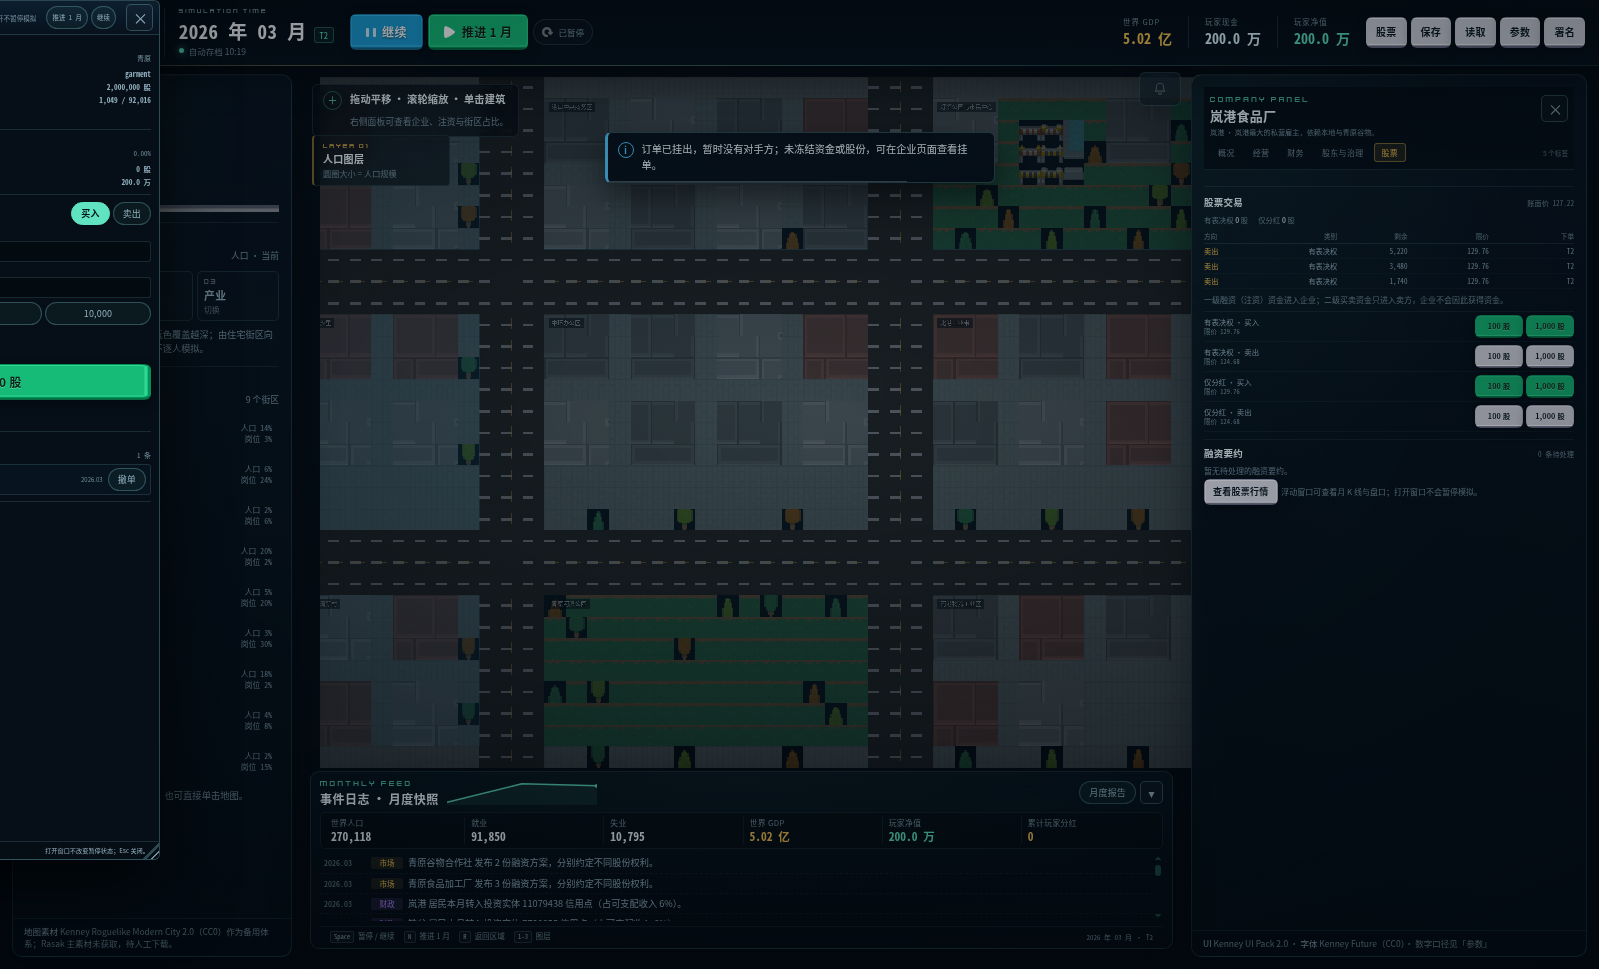
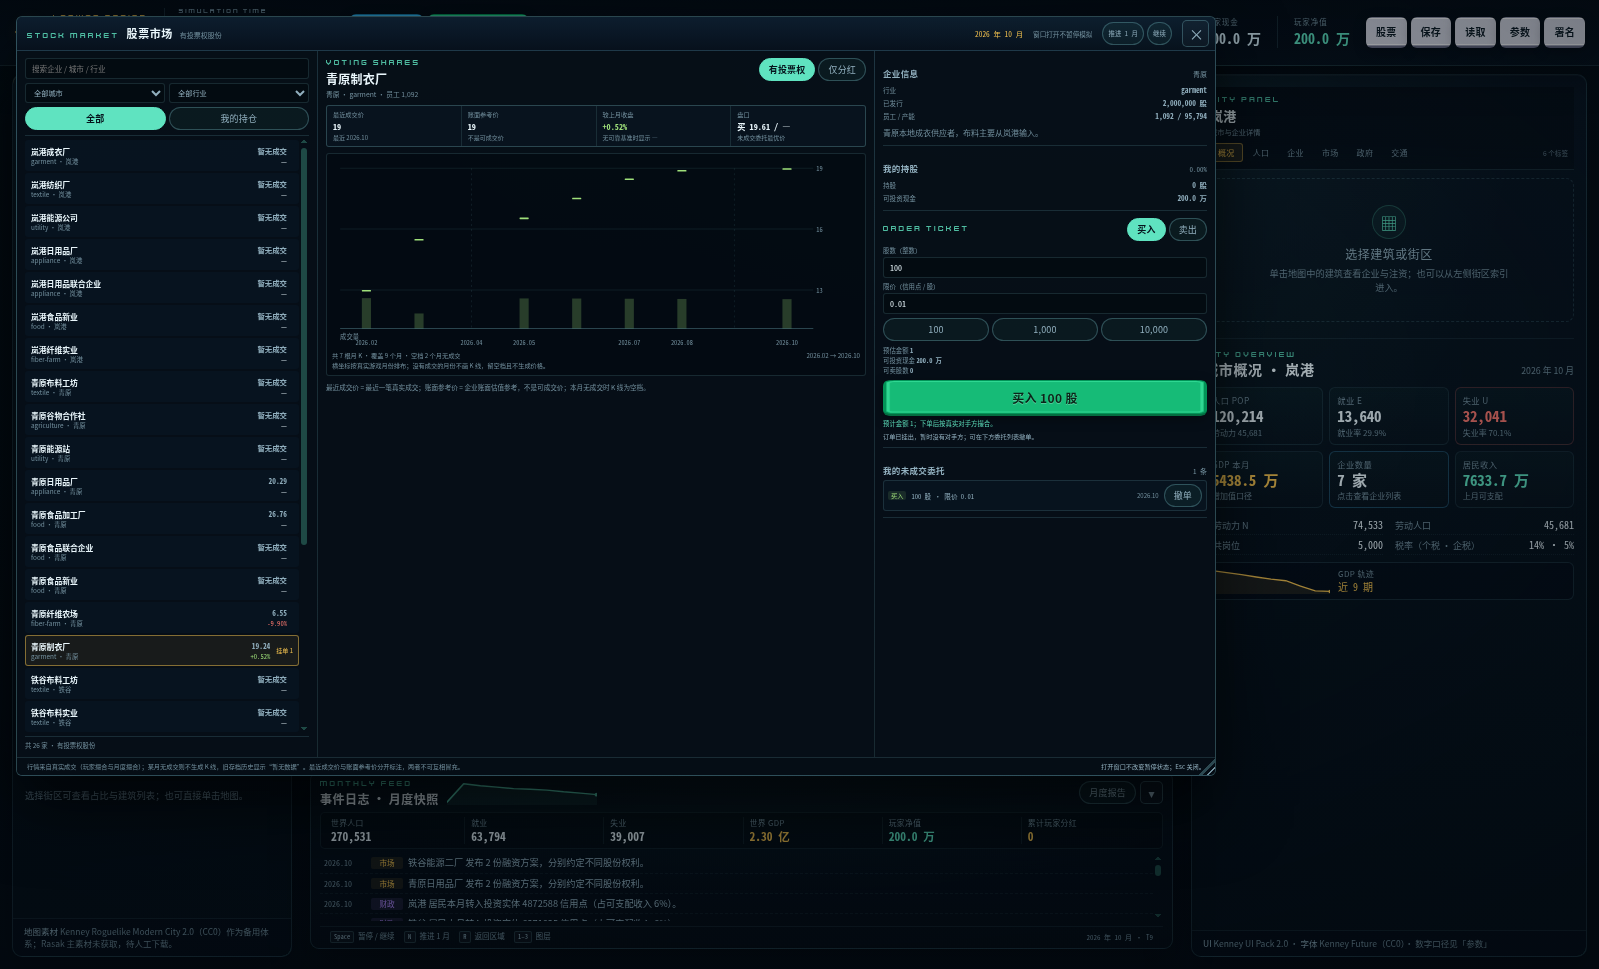
docs: v0.8.1 复验修复记录、桌面证据与版本更新
- 交付报告新增第 17 节：四项复验问题的根因、修复、测试与桌面证据；
- README 更新到 v0.8.1（601 项测试、桌面 42/42、证据 13 张）；
- 更新 docs/evidence_v0.8 截图与验收 JSON。

diff --git a/README.md b/README.md
@@ -1,9 +1,11 @@
-# 岚湾区域 · 多城市经济与政治模拟（机制扩展原型 v0.8.0）
+# 岚湾区域 · 多城市经济与政治模拟（机制扩展原型 v0.8.1）
 
 基于 **TypeScript + Phaser 3 + Electron** 的桌面经济模拟原型。v0.4 在 v0.3（企业自动经营、政府政策、公路铁路交通）基础上，加入**居民职业与财富阶层**、**经营者/人才市场/企业选任**、**玩家三种经营模式**，以及**独立银行系统**（存款、个人与企业贷款、授信估值与旧债务承接）。v0.5 完成总架构师验收后的 7 项修复：经营权限与自动贷款授权、每笔借款独立期限、职业工资差异、按群体消费预算、人才保留、迁移存款守恒，并补充桌面逐项验收与存档终态记录兼容。v0.6 修复市场需求记账：生产采购按“计划需求 / 资金允许的有效需求 / 实际成交 / 缺货未满足 / 资金不足未满足”分开记录，完全无供应时不再显示 0 需求（存档格式升到 v6）。
 v0.7 加入**政府债券与政府债务**（发行计划/实售分离、认购窗口、票息、到期兑付、银行垫付、12 个月 GDP 判定窗口、破产与重选）、**居民消费金融**（群体消费预算、消费贷、违约与欠付）与**财政可见性**（非市长不见财政明细）。v0.7.1 修复总架构师复验的 7 项问题：手动发债 AI 认购、玩家认购 AI 城市债券的窗口、消费贷与成交原子性、政府贷款按实际未偿计息、非市长财政权限、群体变化时债务归属、破产后恢复发债；并修复 36 月模拟中家庭贷款拆分碎片指数增长（合同 11.6 万→~1.3 千）与存档终态协议校验。v0.7.2 修复家庭贷款合并把不同还款安排的贷款并成同一笔、导致新贷款提前到期的问题（只合并开始月/期限/下次还款/利率/状态完全相同的碎片），并禁止 AI 在玩家担任市长的城市自动发债（玩家仍可主动发债）。
 
 v0.8 交付**独立股票市场大窗口**（可拖动/缩放/关闭，三栏；有表决权与仅分红两类股份各自显示持仓、盘口、挂单与**按真实成交聚合的月度 OHLCV K 线**；无成交月份留空档，旧档显示“暂无数据”）、**右侧栏按对象分标签**（城市 6 个、企业 5 个、建筑/街区 2 个，默认概况，切换不改模拟状态）、**股票—居民/企业 AI 联动**（真实资金与持股、确定性规则、企业买方仅限有表决权股份），以及**消费税 5% / 股息税 10% / 城内交通税收系数 0.5–1.5**（加成注入政府、损耗单独记账，纳税人不补缴不退款）；存档升级 v8（旧档只补空行情/空税账/中性系数，不虚构历史成交、不改现金股份债务）。
+
+v0.8.1 修复复验问题：交通税收加成/损耗不再在财政流水与市长面板中重复计算（流水改为“基准税额 + 加成 − 损耗”，净额等于实际入账）；K 线横坐标按真实游戏月份排布、无成交月份留空档，成交量柱不再越出图表；企业退出后保留此前真实成交的行情历史并标识“已退出/不可交易”，禁止继续下单或恢复注销股份；桌面证据补齐到 42 项检查。
 
 > 除文档中明确标注“用户已确认”的少数规则外，本版所有数值与规则均为**可替换的暂定演示方案**，不是最终策划。界面上没有用假按钮冒充完整系统。
 
@@ -128,28 +130,28 @@ npm run package        # 生成 Windows NSIS 安装包（需联网）
 
 ## 存档
 
-- 存档格式 `formatVersion 8`，`gameVersion 0.8.0`；槽位：`autosave`、`manual-1`、`manual-2`、`manual-3`。v0.5/v0.6/v0.7 的 v5/v6/v7 存档可迁移读取（市场账本、财政字段、税收账目与股票行情按保守口径补齐）。
+- 存档格式 `formatVersion 8`，`gameVersion 0.8.1`；槽位：`autosave`、`manual-1`、`manual-2`、`manual-3`。v0.5/v0.6/v0.7 的 v5/v6/v7 存档可迁移读取（市场账本、财政字段、税收账目与股票行情按保守口径补齐）。
 - **迁移链 v1 → v2 → v3 → v4 → v5 → v6 → v7 → v8 全部保留**。v7 → v8 只补空行情、空税账与中性系数（不虚构历史成交、不重复扣税、不改变现金/股份/债务）。v4 → v5 补齐居民群体（现金与存款为 0，不凭空造钱）、经营者（沿用原企业风格）、银行账本，并把旧 `company.debt` 承接为有还款计划的银行贷款（本金不变、不清零、不重复计息）。
 - **旧版 v1/v2 存档自动迁移**：保留人口、企业现金/债务/库存/产能、玩家现金与持股、时间、历史、日志、随机种子与 RNG 状态。v1 的全部发行股份迁移为有投票权类别，玩家持股原值保留，其余股份按本城居民实体人口占比分配；居民实体现金从 0 开始，不凭空创造货币。v2 议案补上登记日投票权快照，仍开放的旧议案把异常重复票压到登记日持股。
 - 无法安全推导的旧存档（发行量无效、玩家持股超过发行量等）会被明确拒绝并说明原因。
 - 自动存档：文件不存在（首次运行）与“文件存在但读取失败”（过大、权限、IO 错误、损坏内容）被区分处理。后者会暂停自动写入并保留原文件，界面用易懂语言提示；读取有效存档或确认开始新世界后才恢复自动保存。
 - 读取失败不会覆盖当前进度；版本高于 2 明确拒绝。
 
-## 验证状态（2026-11-03，v0.8.0）
+## 验证状态（2026-11-03，v0.8.1）
 
 - `npm run typecheck`：通过（渲染层 + Electron 主进程，0 错误）。
-- `npx vitest run --maxWorkers=1`：**73 个测试文件 / 586 项全部通过**（新增股票行情、股票 AI、订单号唯一性、消费税/股息税/交通系数、右栏标签与股票窗口、存档 v8 迁移；既有银行/债券/破产/治理/交通/居民债务回归全部通过）。
+- `npx vitest run --maxWorkers=1`：**75 个测试文件 / 601 项全部通过**（新增股票行情、股票 AI、订单号唯一性、消费税/股息税/交通系数、右栏标签与股票窗口、存档 v8 迁移、税收流水一致性与退出企业历史保留；既有银行/债券/破产/治理/交通/居民债务回归全部通过）。
 - `npm run build`：通过。
-- 桌面逐项验收 `node scripts/acceptance-v08.cjs`（Xvfb + Electron，隔离 userData）：**36/36 项通过、0 条控制台错误**；截图 10 张与 JSON 已入仓 `docs/evidence_v0.8/`（不依赖 artifacts/）。
+- 桌面逐项验收 `node scripts/acceptance-v08.cjs`（Xvfb + Electron，隔离 userData）：**42/42 项通过、0 条控制台错误**；截图 13 张与 JSON 已入仓 `docs/evidence_v0.8/`（不依赖 artifacts/）。
 - 主冒烟 `node scripts/smoke-main.cjs`：exit 0（已适配右栏“企业”标签）。
-- 36 个月固定种子集成观察 `npx tsx scripts/economy-balance-report.ts`：exit 0，末期不变量通过；数据与解读见 `docs/development/DELIVERY_REPORT_v0.8.md` 第 7 节。
+- 36 个月固定种子集成观察 `npx tsx scripts/economy-balance-report.ts`：exit 0，末期不变量通过；数据与解读见 `docs/development/DELIVERY_REPORT_v0.8.md` 第 7 节；复验修复记录见第 17 节。
 - 详细记录见 `docs/development/DELIVERY_REPORT_v0.8.md`。
 
 桌面验证使用隔离的 `artifacts/acceptance-v08/electron-user-data`，不会触碰用户真实存档。本机为无显示容器，桌面验证通过 Xvfb 执行。
 
 ## 已知限制
 
-- 股票定价首版以账面价作参考、以真实成交作最近价；尚无做市商、估值模型或两类股份的差异化定价，K 线为月度粒度。
+- 股票定价首版以账面价作参考、以真实成交作最近价；尚无做市商、估值模型或两类股份的差异化定价，K 线为月度粒度。非投票（仅分红）股份目前没有 AI 对手方，真实行情通常为空，界面显示“暂无成交”而不伪造成交；企业退出后的历史行情为只读。
 - 居民股票权益按本城人口比例归属居民投资实体，首版不区分各群体自己的投资组合。
 - 财富阶层阈值、初始财富（按“若干个月群体收入”注入）、经营者任期与候选人规则、玩家经营模式阈值均为可替换的暂定参数。
 - 银行资金无限意味着存款利息会净增加货币量；这是用户已确定的定位，未做央行冲销。

diff --git a/docs/development/DELIVERY_REPORT_v0.8.md b/docs/development/DELIVERY_REPORT_v0.8.md
@@ -228,3 +228,83 @@ DISPLAY=:99 node_modules/electron/dist/electron --no-sandbox \
 - 分支：`feature/stock-market-ui-tax`（不在 main 上提交、不合并、不 force push、不改写已推送历史）
 - 基线：`6c45000efc4c406d30e22c0a12bd066fc2df61f7`
 - 最终提交与远程 SHA：见文末提交记录（本报告随文档提交一并推送）。
+
+# 17. v0.8.1 复验修复记录（2026-11-03）
+
+- 开发基线：`010888ecdc62febfd4ef527ded8d97524f5ad886`
+- 本轮代码提交：`bc0b43b`（模拟/税收/历史）、`a0eac87`（K 线/股票窗口/桌面脚本）；文档与证据提交随本次推送给出
+- `SAVE_FORMAT_VERSION` 保持 8，`GAME_VERSION` 升级为 `0.8.1`（仅新增可选字段与放宽校验，v8 旧档可读）
+
+## 17.1 交通税收加成/损耗在财政流水中重复计算
+
+**根因**：`settleCityTaxes` 先把“调整后的最终税收”记入财政流水，又各记一笔 `transportTaxBonus` / 负数 `transportTaxLoss`；市长财政视图按流水金额正负分别汇总为收入/支出，于是系数 1.5 时收入显示为基准 100 + 调整 50（加倍），系数 0.5 时收入 50、支出 50、净额 0。
+
+**修复**：财政流水改为按**基准税额**记四税，交通调整单列：
+
+- `incomeTax` / `corporateTax` / `consumptionTax` / `dividendTax` 分录金额 = 各自基准税额（备注“基准税额；交通调整单列”）；
+- `transportTaxBonus` 记正数、`transportTaxLoss` 记负数，净额 = 实际入账；
+- 政府财政余额仍只增加“最终入账”（基准 × 系数），纳税人仍只付基准税额；加成由系统注入、损耗按原口径单独流出；
+- 四税可分别查询基准税额、交通调整额与最终收入（`CityTaxMonth` 四组 base/revenue + `transportBonus/Loss`），市长面板“基准税 / 交通系数 / 加成 / 损耗 / 最终入账”与流水逐项一致。
+
+**测试**：新增 `tests/tax-ledger-consistency.test.ts`（5 项）：系数 1.5 → 财政 +150、流水 `incomeTax 100 + bonus 50`、面板收入 150/支出 0/净额 150；系数 1.0；系数 0.5 → 收入 100/支出 50/净额 50；四税 taxNet = `totalRevenue`、重复结算清账；读档后再结算不重复入账。按新口径更新 `tests/tax-transport.test.ts`（四税基准分录 + 加成/损耗，净额 49,500）。
+
+## 17.2 K 线无成交月份的时间轴
+
+**根因**：`renderStockChart` 以蜡烛数组下标均匀排布横坐标，1 月与 12 月有成交时仍相邻；成交量柱在固定高度 SVG 内可越出底部被裁切。
+
+**修复**：`src/ui/stock-window/chart.ts`
+
+- 横坐标按真实游戏月份映射：`x(tick) = left + (tick - firstTick + 0.5) × slot`，无成交月不生成蜡烛，只留空档；
+- 月份刻度（最多 6 个）、空档纵向虚线 `.gap-mark` 与提示，meta 显示“覆盖 N 个月 · 空档 M 个月无成交”，悬停月份取该蜡烛真实 tick；
+- 价格区与成交量区各自预留高度（`PRICE_BOTTOM = 高度 − 边距 − 成交量区 − 间隔`），成交量柱底边量化为整数并限制在基线（168）以内，不再越界；
+- 新增 `data-months` / `data-gap-months` / 蜡烛 `data-tick`，便于回归测试与验收脚本核对；
+- 不伪造任何 OHLCV：无成交月份没有蜡烛，成交量柱为空。
+
+**测试**：`tests/ui-stock-window.test.ts` 增至 18 项（1 月与 12 月有成交 → 覆盖 12 个月、空档 10 个月且两根蜡烛间距 > 400px；连续月份无空档；单笔成交居中且 `data-tick` 正确；成交量柱底 ≤ 168；两类股份标题与数据独立；已退出企业只读渲染）。
+
+## 17.3 企业退出前的真实股票历史
+
+**根因**：`ensureStockHistory` 以现存 `securities.classes` 为依据清理历史；企业退出时股份类别被移除，随后一次调用就删掉该企业全部 K 线。
+
+**修复**：
+
+- `StockClassHistory` 增加可选 `companyName`、`exitedTick`；`ensureStockHistory` 保留不在现存类别中的历史条目并标记首次退出月份，存续类别同步名称并清除退出标记；`recordStockTrade` 忽略已退出类别，不会给退出企业追加成交；
+- `validateSecurities` 放宽为：历史条目只要 `shareClassId/companyId` 为非空字符串、`kind` 合法即可（允许引用已退出企业），类别仍存在时继续校验一致；可选字段类型校验；
+- `GameStore.stockMarketView` 在经营中企业之后追加已退出历史行（`exited: true`、`tradable: false`），明细展示企业名、类别、最后成交、退出月份与 K 线；`tradeShares` 对已退出企业/注销股份返回失败（“该企业已退出市场或股份已注销：不可再交易。”）；
+- 股票窗口对退出企业显示“已退出 / 不可交易”标识与说明，隐藏下单表单；读档、刷新、其他企业交易均不清除历史。
+
+**测试**：新增 `tests/stock-history-retention.test.ts`（4 项）：退出后 K 线/最后成交/名称快照保留并带 `exitedTick`；反复刷新与其他企业交易不清除、退出月不变；v8 存档校验允许历史引用已退出企业与类别；GameStore 列表/明细只读且下单被拒。
+
+## 17.4 桌面证据与窗口交互复查
+
+`scripts/acceptance-v08.cjs` 扩展为 42 项检查并重跑（Xvfb + Electron，隔离 userData）：
+
+- 新增 `ensureWindowInside`：极限拖动触发夹取后，把窗口缩放到 ≤1200×760 并拖回 (16,16)，断言完整可见（`left/top ≥ 0`、`right/bottom ≤ 视口`）后再截图；
+- 新增空档 K 线检查（最多推进 8 个月寻找 `months - candles ≥ 2` 的类别，断言 `data-gap-months ≥ 2` 且空档标记数 ≥ 2）；
+- 新增两类股份切换检查（列表行全部属于 `:non-voting` 类别；无真实成交时显示“暂无成交”，不伪造）；
+- 新增税收一致性检查：四税 + 加成 − 损耗的流水净额 = 税收月报最终入账，且市长面板收入 − 支出 = 流水净额；
+- 新增企业退出检查：删除一家有真实成交的企业后，窗口显示“已退出”历史、保留蜡烛、无下单表单、`tradeShares` 被拒；
+- **结果：42/42 通过、0 条控制台错误**；证据（13 张 PNG + JSON）已入仓 `docs/evidence_v0.8/`，关键截图：
+  - `v08-06-stock-window-moved.png`：极限拖动后拖回屏幕内（1200×760 @ 16,16）；
+  - `v08-07-stock-window-candles.png`：真实成交的完整 K 线与成交量；
+  - `v08-11-stock-window-gap.png`：覆盖 9 个月、空档 2 个月的 K 线；
+  - `v08-12-stock-window-nonvoting.png`：两类股份切换；
+  - `v08-13-stock-exited-history.png`：企业退出后的历史行情与只读状态。
+
+## 17.5 本轮验证
+
+| 命令 | 结果 |
+| --- | --- |
+| `npm run typecheck` | 通过（渲染层 + Electron 主进程，0 错误） |
+| `npm run build` | 通过（`multi-city-sim@0.8.1`） |
+| `npx vitest run --maxWorkers=1` | **75 个测试文件 / 601 项全部通过** |
+| `node scripts/acceptance-v08.cjs`（Xvfb + Electron，隔离 userData） | **42/42 项通过、0 条控制台错误** |
+| 证据 | `docs/evidence_v0.8/`（13 张 PNG + `acceptance-v08.json`） |
+
+## 17.6 仍存在的问题与已知限制
+
+- 城内交通需求仍以“本地成交 + 进口”的货物配送量近似，不是居民通勤；实测 36 个月保障率恒为 1、系数恒为 1.50，“交通征收损耗”分支目前只由单元测试覆盖。要评估交通对税收的真实压力，需要单独的通勤/道路拥堵口径。
+- 非投票股份目前没有 AI 对手方，真实行情通常为空；窗口会显示“暂无成交”，这符合“不为成交造假”的规则，但市场活跃度有限。
+- 家庭贷款合同数仍随群体变化线性增长（36 月约 2 千笔），已用“同还款计划碎片合并”抑制指数增长，后续仍需按还款计划聚合的账本结构。
+- 股票 AI 仍为首版规则型（月度一次、无做市/组合优化），企业投资上限较小；消费税只覆盖居民消费品，股息税首版对企业/政府股东不征。
+- 桌面证据为 Xvfb 无头截图，Windows 真机表现需按第 10 节复验；经济平衡未作为本轮目标，也未调整任何数值。
